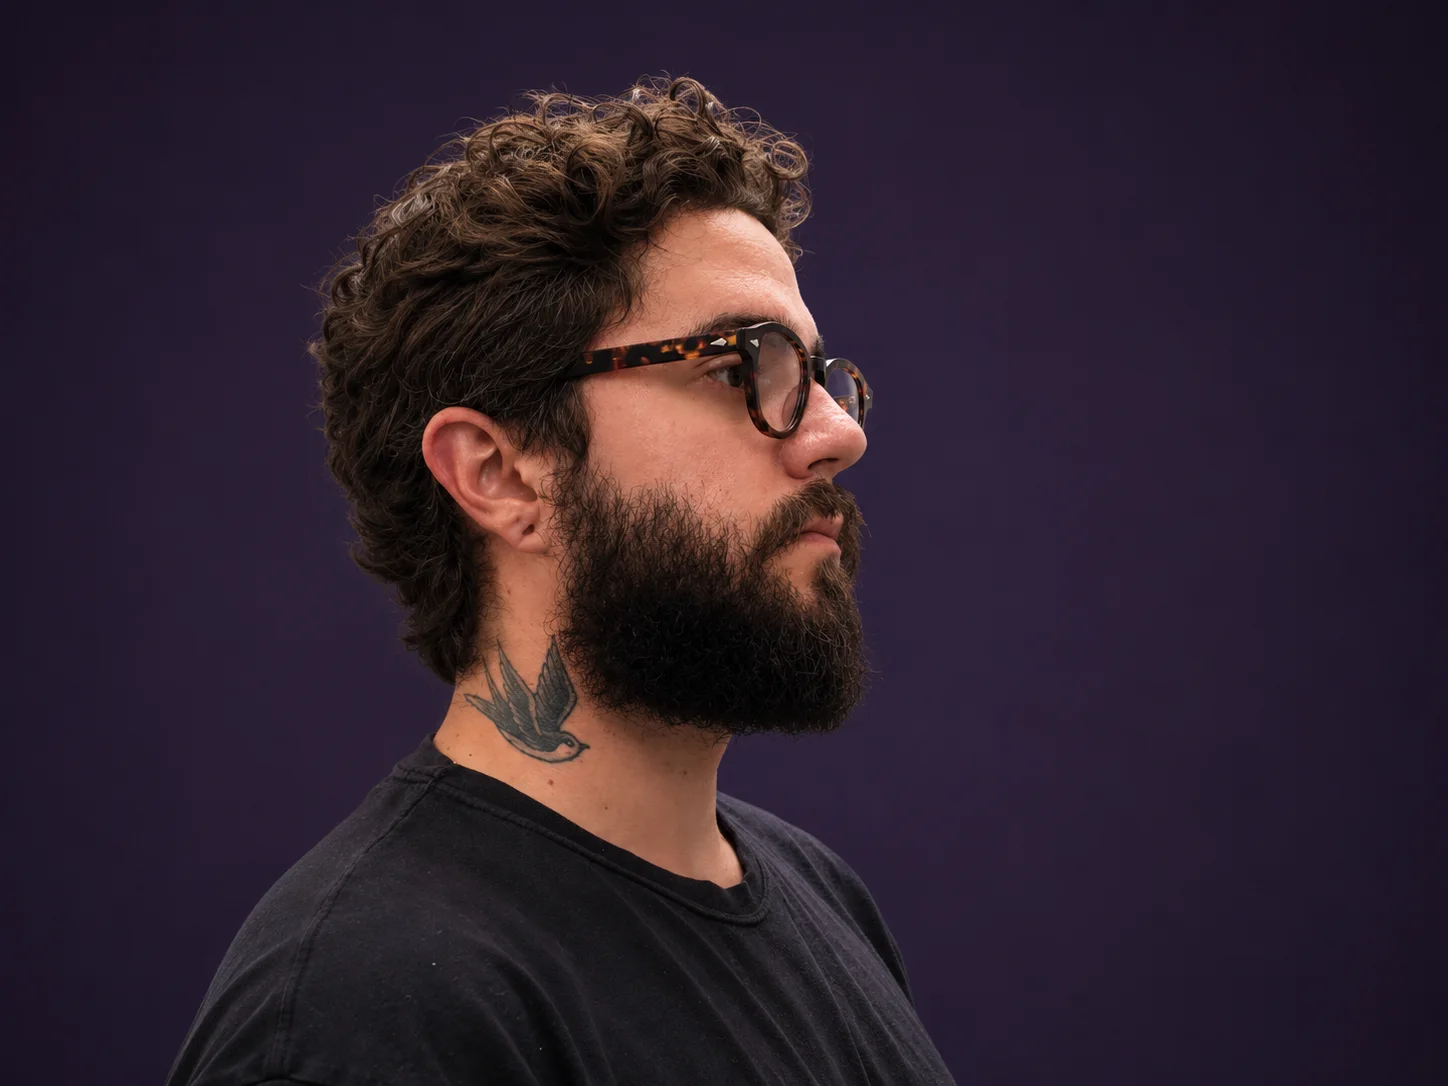
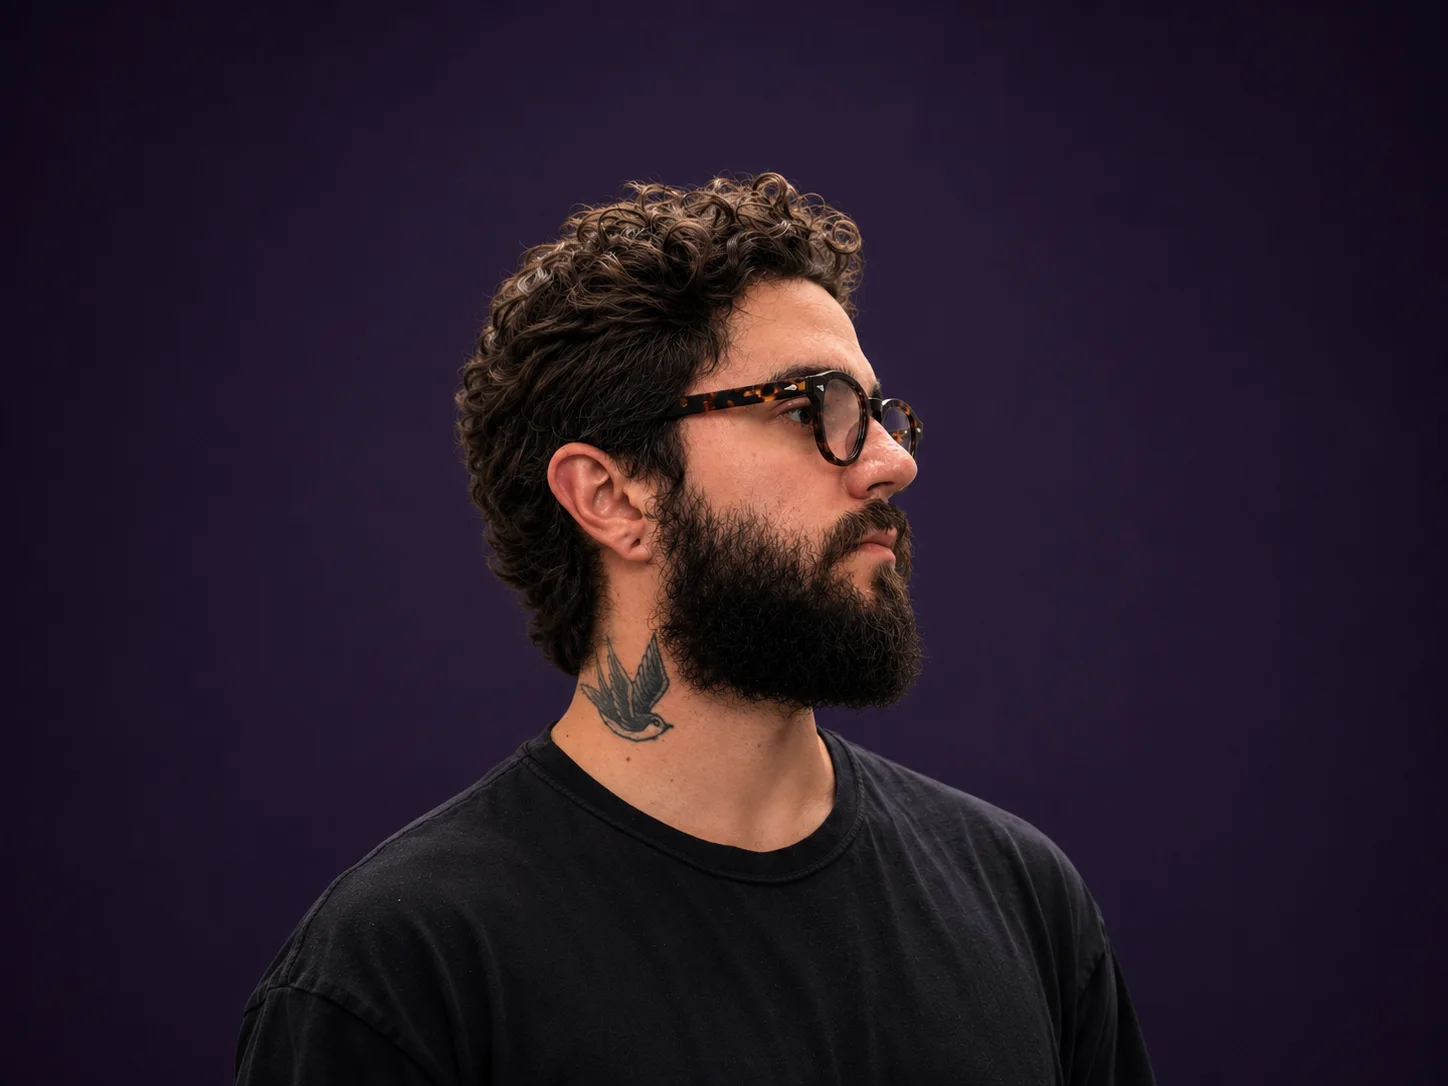
feat(home): use new centered hero portrait, full-bleed at natural size
Revert the right-anchored cutout experiment. Use a pre-centered portrait
full-bleed with a plain centered object-cover (no zoom/translate hacks), match
the field to the new photo's background (#271a28), and regenerate the base and
cutout from the new image.

diff --git a/src/components/sections/hero-section.tsx b/src/components/sections/hero-section.tsx
@@ -124,9 +124,9 @@ export function HeroSection({ title }: HeroSectionProps) {
       style={{ ["--name-wght" as string]: "720" }}
       className="hero-field relative -mt-16 min-h-[100svh] w-full overflow-hidden"
     >
-      {/* Portrait sandwich: base photo → faint name → subject cutout (which
-          occludes the name, so it reads as written *behind* the head) → veil.
-          Base and cutout share identical object-position so they align. */}
+      {/* Full-bleed centred portrait: base photo → faint name → subject cutout
+          (occludes the name so it reads behind the head) → veil. Base and cutout
+          share the same object-position so they align. */}
       <div className="absolute inset-0">
         <Image
           src="/hero-portrait.webp"
@@ -134,11 +134,11 @@ export function HeroSection({ title }: HeroSectionProps) {
           fill
           priority
           sizes="100vw"
-          className="hero-portrait origin-left scale-[1.16] object-cover object-[56%_24%] md:object-[58%_28%]"
+          className="object-cover object-[50%_22%] md:object-[50%_26%]"
         />
         <span
           aria-hidden
-          className="pointer-events-none absolute left-1/2 top-[7%] -translate-x-1/2 select-none whitespace-nowrap font-display text-[clamp(8rem,30vw,30rem)] font-bold uppercase leading-none tracking-tighter text-white/[0.10]"
+          className="pointer-events-none absolute left-1/2 top-[8%] -translate-x-1/2 select-none whitespace-nowrap font-display text-[clamp(7rem,28vw,28rem)] font-bold uppercase leading-none tracking-tighter text-white/[0.10]"
         >
           {FIRST_NAME}
         </span>
@@ -148,7 +148,7 @@ export function HeroSection({ title }: HeroSectionProps) {
           fill
           priority
           sizes="100vw"
-          className="origin-left scale-[1.16] object-cover object-[56%_24%] md:object-[58%_28%]"
+          className="object-cover object-[50%_22%] md:object-[50%_26%]"
         />
         <div aria-hidden className="hero-veil absolute inset-0" />
       </div>

diff --git a/src/app/globals.css b/src/app/globals.css
@@ -145,9 +145,9 @@ body::before {
    the whole hero. The portrait is screen-blended so its dark background
    dissolves into the field and the subject emerges in the accent. */
 .hero-field {
-  /* Flat field matched to the hero photo's own background (#30222e) so the
-     portrait's horizontal shift reveals no seam. No top gradient. */
-  background: #30222e;
+  /* Flat field matched to the hero photo's own background so any edge stays
+     seamless and load shows no flash. No top gradient. */
+  background: #271a28;
 }
 
 /* The portrait already carries its own purple background, so it is shown